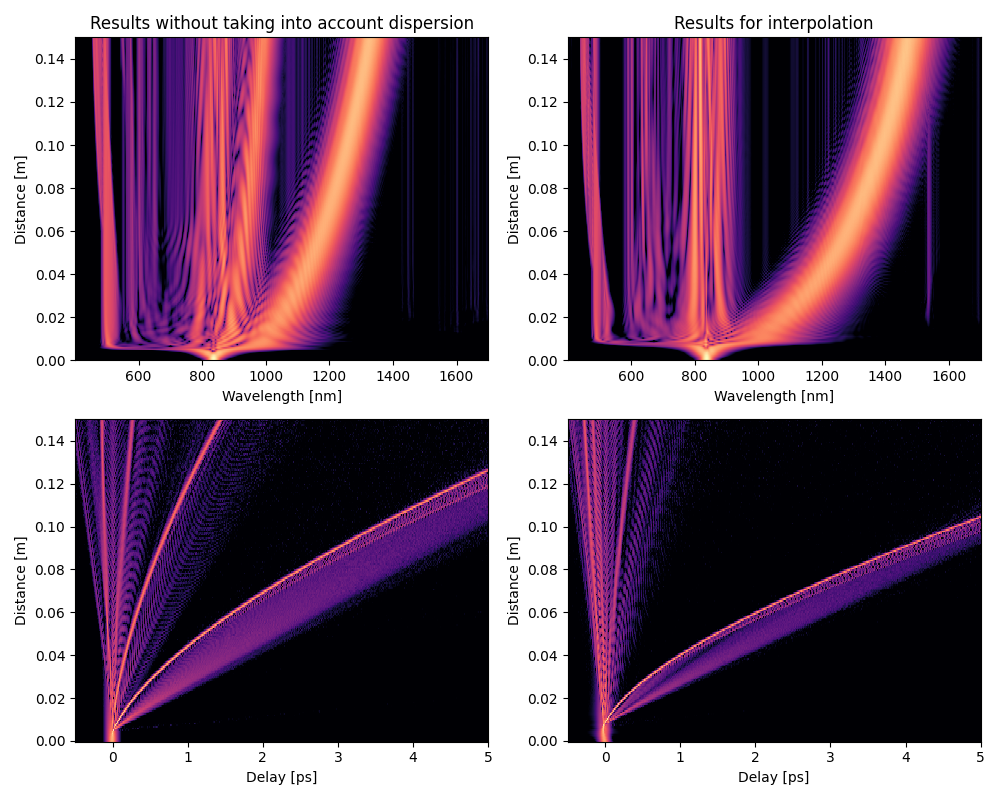
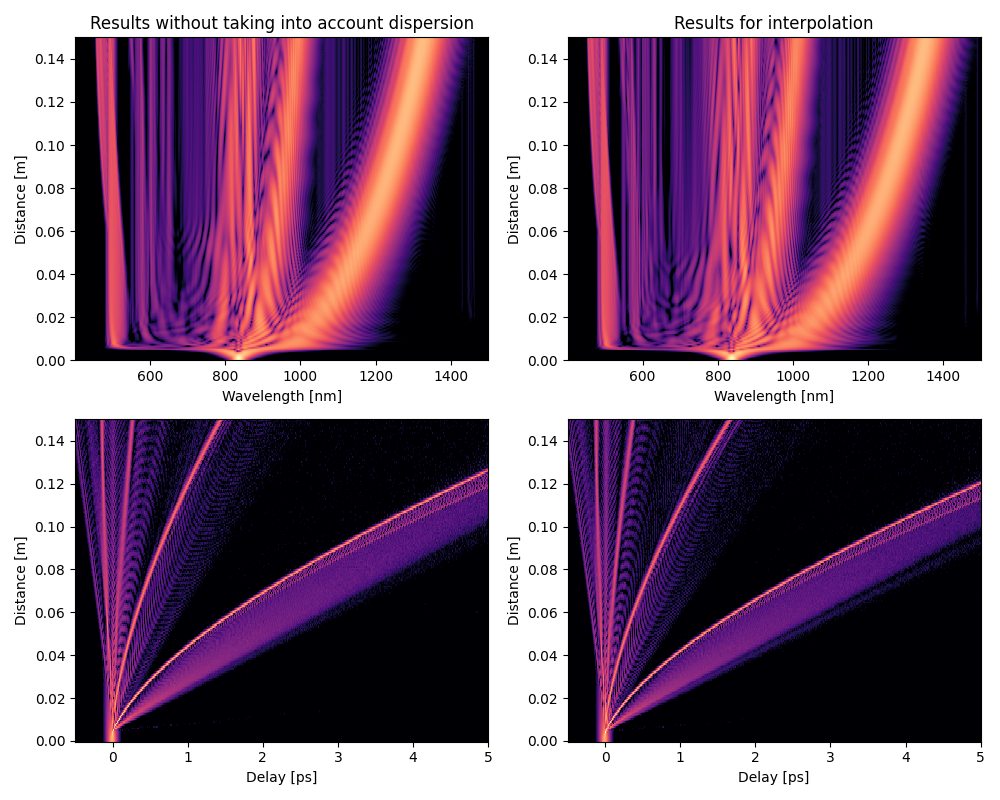
Minor bug fix with scaling

diff --git a/gnlse/gnlse.py b/gnlse/gnlse.py
@@ -79,12 +79,16 @@ class Solution:
         Intermediate steps in the frequency domain.
     """
 
-    def __init__(self, t=None, W=None, Z=None, At=None, AW=None):
+    def __init__(self, t=None, W=None, Z=None, At=None, AW=None,
+                 Aty=None, AWy=None):
         self.t = t
         self.W = W
         self.Z = Z
         self.At = At
         self.AW = AW
+        # aditional solutions in case of two-mode example
+        self.Aty = Aty
+        self.AWy = AWy
 
     def to_file(self, path):
         """
@@ -120,8 +124,8 @@ class Solution:
 
 class GNLSE:
     """
-    Models propagation of an optical impulse in a fiber by integrating the
-    generalized non-linear Schrödinger equation.
+    Models propagation of an optical impulse in a fiber by integrating
+    the generalized non-linear Schrödinger equation.
 
     Attributes
     ----------
@@ -177,6 +181,8 @@ class GNLSE:
             # in case in of frequency dependent nonlinearity
             gamma, self.scale = setup.nonlinearity.gamma(self.V + w_0)
             self.gamma = gamma / w_0
+            self.gamma = np.fft.fftshift(self.gamma)
+            self.scale = np.fft.fftshift(self.scale)
         else:
             # in case in of direct introduced value
             self.gamma = setup.nonlinearity / w_0
@@ -194,20 +200,28 @@ class GNLSE:
 
         # Dispersion operator
         if setup.dispersion_model:
-            D = setup.dispersion_model.D(self.V)
+            self.D = setup.dispersion_model.D(self.V)
         else:
-            D = np.zeros(self.V.shape)
-        self.D = np.fft.fftshift(D)
+            self.D = np.zeros(self.V.shape)
 
         # Input impulse
-        self.A = setup.impulse_model.A(self.t)
+        if hasattr(setup.impulse_model, 'A'):
+            self.A = setup.impulse_model.A(self.t)
+        else:
+            self.A = setup.impulse_model
 
     def run(self):
         """
-        Solve the problem described by the given ``GNLSESetup`` object.
+        Solve one mode GNLSE equation described by the given
+        ``GNLSESetup`` object.
+
+        Returns
+        -------
+        setup : Solution
+            Simulation results in the form of a ``Solution`` object.
         """
         dt = self.t[1] - self.t[0]
-
+        self.D = np.fft.fftshift(self.D)
         x = pyfftw.empty_aligned(self.N, dtype="complex128")
         X = pyfftw.empty_aligned(self.N, dtype="complex128")
         plan_forward = pyfftw.FFTW(x, X)
@@ -263,6 +277,6 @@ class GNLSE:
             AW[i, :] *= np.exp(np.transpose(
                 self.D) * Z[i]) / self.scale
             At[i, :] = np.fft.fft(AW[i, :])
-            AW[i, :] = np.fft.fftshift(AW[i, :]) / dt
+            AW[i, :] = np.fft.fftshift(AW[i, :]) * self.N * dt
 
         return Solution(self.t, self.Omega, Z, At, AW)

diff --git a/examples/test_nonlinearity.py b/examples/test_nonlinearity.py
@@ -90,7 +90,7 @@ if __name__ == '__main__':
 
         plt.subplot(2, count, i + 1)
         plt.title(model[0])
-        gnlse.plot_wavelength_vs_distance(solution, WL_range=[400, 1700])
+        gnlse.plot_wavelength_vs_distance(solution, WL_range=[400, 1500])
         plt.subplot(2, count, i + 1 + count)
         gnlse.plot_delay_vs_distance(solution, time_range=[-.5, 5])
 

diff --git a/docs/gnlse_intro.rst b/docs/gnlse_intro.rst
@@ -107,12 +107,16 @@ Major features
 Release information
 -------------------
 
-v1.0.0 was released on August 13, 2020. The master branch works with
+v1.1.1 was released on August 28, 2021. The master branch works with
 **Python 3.7.**
 
 =======  ===============  ====================================================
 Version  Date             Notes
 =======  ===============  ====================================================
+1.1.1    August 28, 2021  * CHANGE: Minor bug fix with scaling
+                          * CHANGE: Few minor changes in the documentation
+1.1.0    August 21, 2021  * Modified-GNLSE extension
+                          * CHANGE: Code refactor - relocate attribiutes
 1.0.0    August 13, 2020  * The first proper release
                           * CHANGE: Complete documentation and code.
 =======  ===============  ====================================================
@@ -123,7 +127,7 @@ Authors
   * `Adam Pawłowski <https://github.com/adampawl>`_
   * `Paweł Redman <https://redman.xyz/>`_
   * `Daniel Szulc <http://szulc.xyz/>`_
-  * Magda Zatorska
+  * `Magda Zatorska <https://github.com/magdazatorska>`_
   * `Sylwia Majchrowska <https://majsylw.netlify.app/>`_
   * `Karol Tarnowski <http://www.if.pwr.wroc.pl/~tarnowski/>`_
 

diff --git a/README.md b/README.md
@@ -93,16 +93,19 @@ And you expect to visualise supercontinuum generation process in use of 3 types
 
 ## Release History
 
-v1.1.0 was released in 21/8/2021.
+v1.1.1 was released in 28/8/2021.
 The master branch works with **python 3.7**.
 
-* **1.0.0 -> Aug 13th, 2020**
-    * The first proper release
-    * CHANGE: Complete documentation and code
-* **1.1.0 -> Aug 21th, 2021**
+* **1.1.1 -> Aug 28th, 2021**
+    * CHANGE: Minor bug fix with scaling
+    * CHANGE: Few minor changes in the documentation
+* **1.1.0 -> Aug 21st, 2021**
     * Modified-GNLSE extension
     * CHANGE: Code refactor - relocate GNLSE's attribiutes setting into constructor
     * ADD: Possibility to take into account the effective mode area's dependence on frequency
+* **1.0.0 -> Aug 13th, 2020**
+    * The first proper release
+    * CHANGE: Complete documentation and code
 
 ## Authors
 

diff --git a/docs/examples/example_effective_mode_area.rst b/docs/examples/example_effective_mode_area.rst
@@ -80,7 +80,7 @@ a 15 centimeter long photonic crystal fiber. ::
 
             plt.subplot(2, count, i + 1)
             plt.title(model[0])
-            gnlse.plot_wavelength_vs_distance(solution, WL_range=[400, 1700])
+            gnlse.plot_wavelength_vs_distance(solution, WL_range=[400, 1500])
             plt.subplot(2, count, i + 1 + count)
             gnlse.plot_delay_vs_distance(solution, time_range=[-.5, 5])
 
